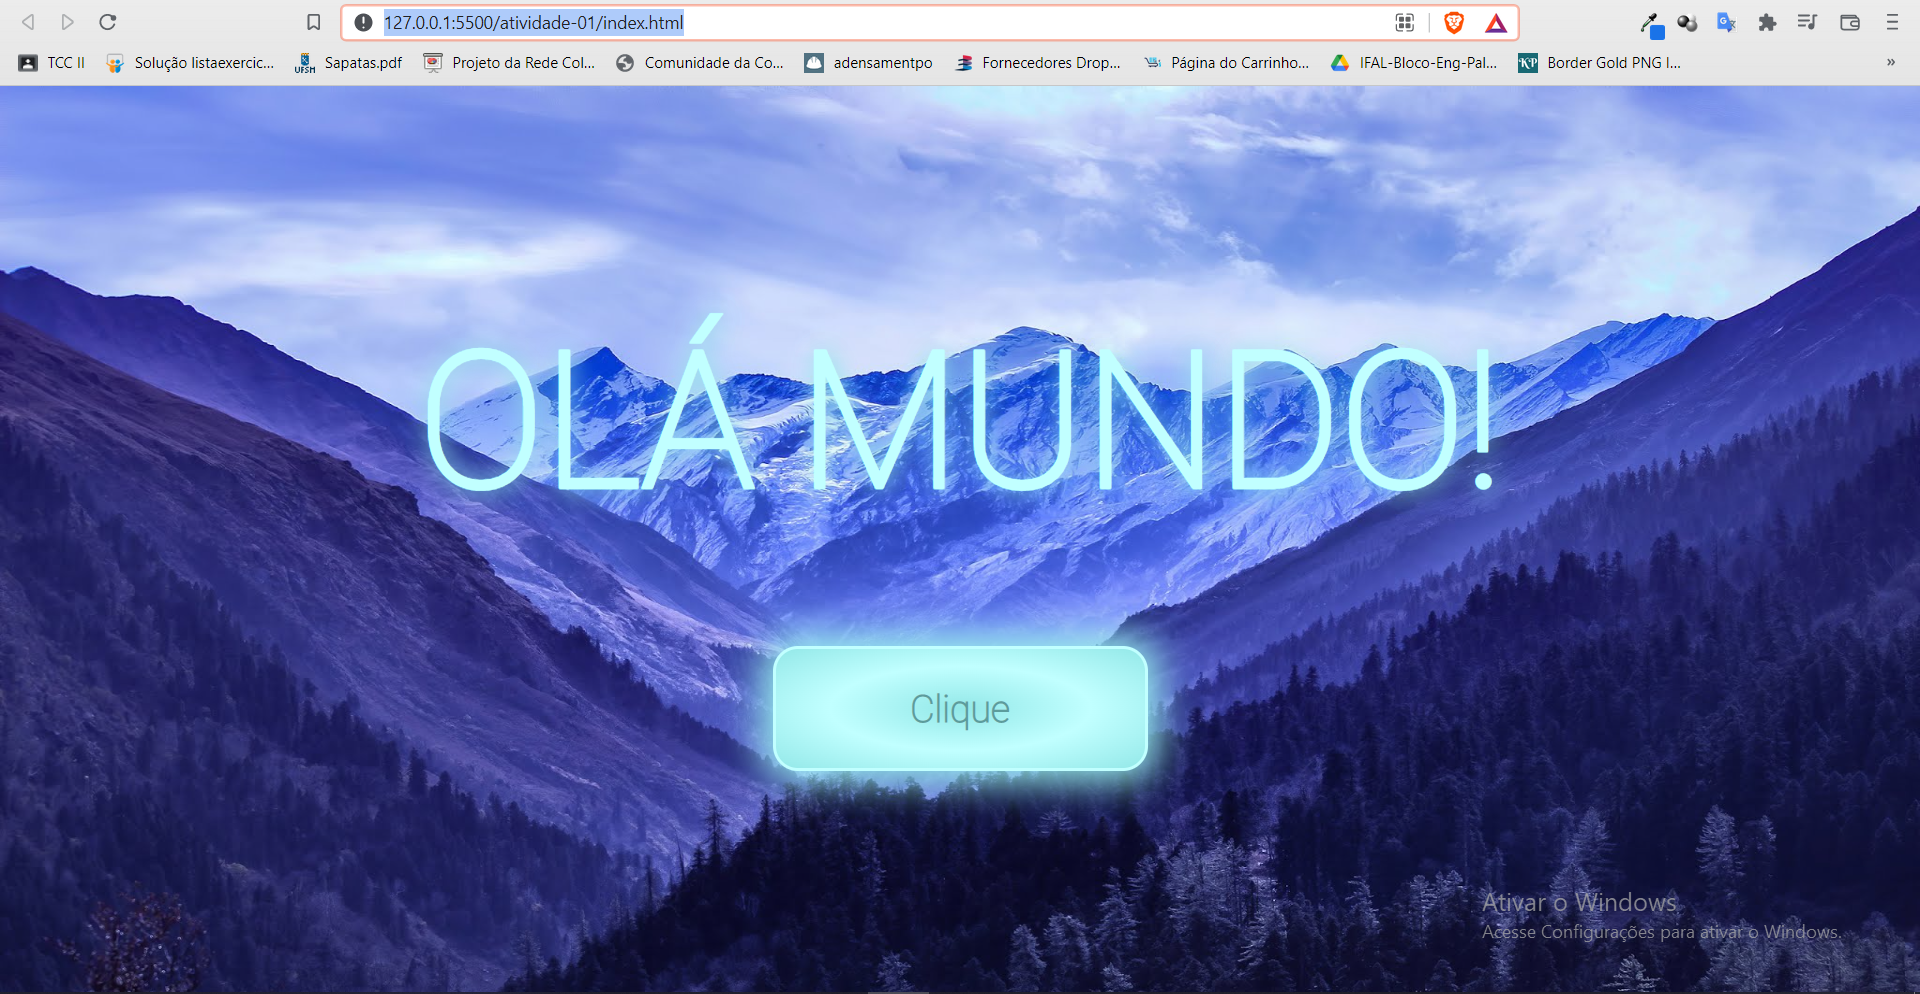
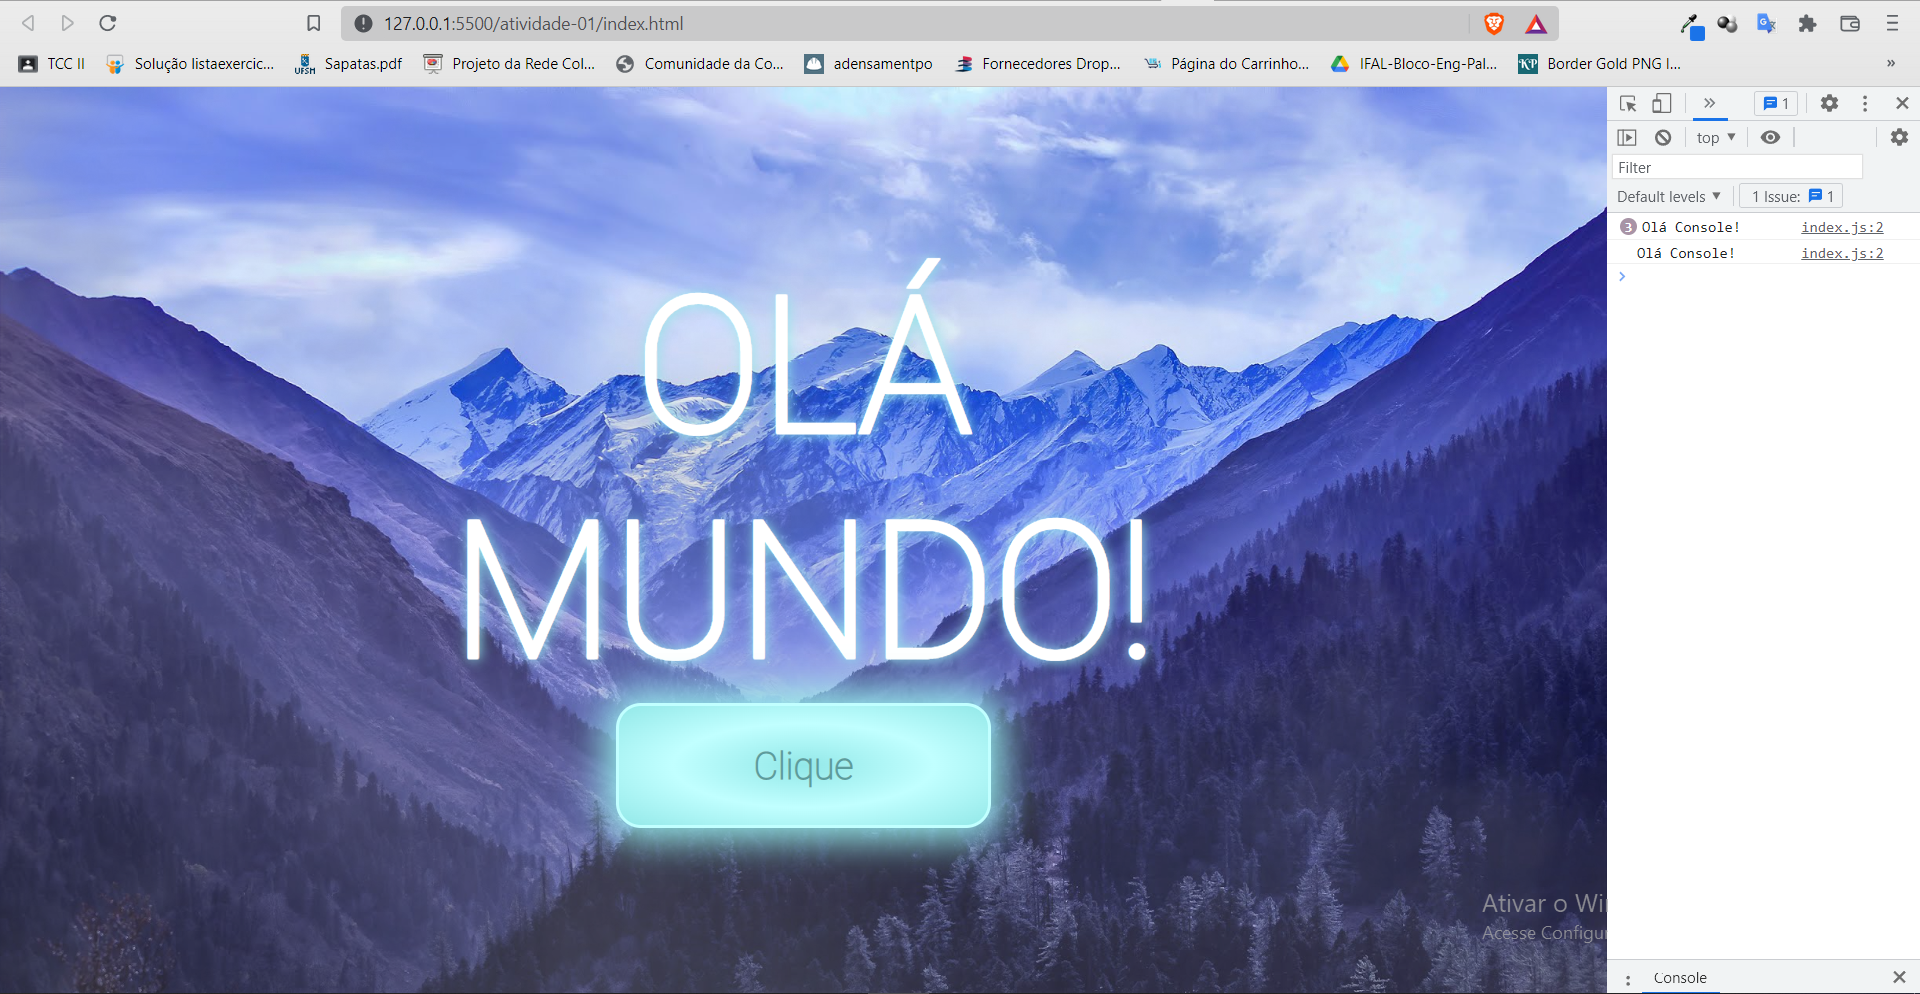
adição de nevoa.png

diff --git a/atividade-01/index.css b/atividade-01/index.css
@@ -23,6 +23,21 @@ body {
     justify-content: center;
 }
 
+#nevoa-background {
+    height: 100%;
+    width: 100%;
+    background-image: url(./nevoa.png);
+    background-repeat: no-repeat;
+    background-position: center;
+    background-size: 100% 100%;
+    opacity: .4;
+
+    display: flex;
+    align-items: center;
+    justify-content: center;
+}
+
+
 #section {
     width: 65%;
     height: 80%;
@@ -31,7 +46,8 @@ body {
     display: flex;
     flex-direction: column;
     justify-content: space-around;
-    align-items: center;    
+    align-items: center;
+    position: absolute;   
 }
 
 h1 {
@@ -39,8 +55,8 @@ h1 {
     text-align: center;
     font-size: 150px;
     font-weight: 900;
-    color: #c1ffff;
-    text-shadow: 1px 1px 20px #93e8e8;
+    color: #ffffff;
+    text-shadow: 1px 1px 10px #93e8e8;
 }
 
 .btn {

diff --git a/atividade-01/index.html b/atividade-01/index.html
@@ -12,6 +12,9 @@
 </head>
 <body>
     <article id="article">
+        <div id="nevoa-background">
+            
+        </div>
         <section id="section">
             <h1>OLÁ MUNDO!</h1>
         
